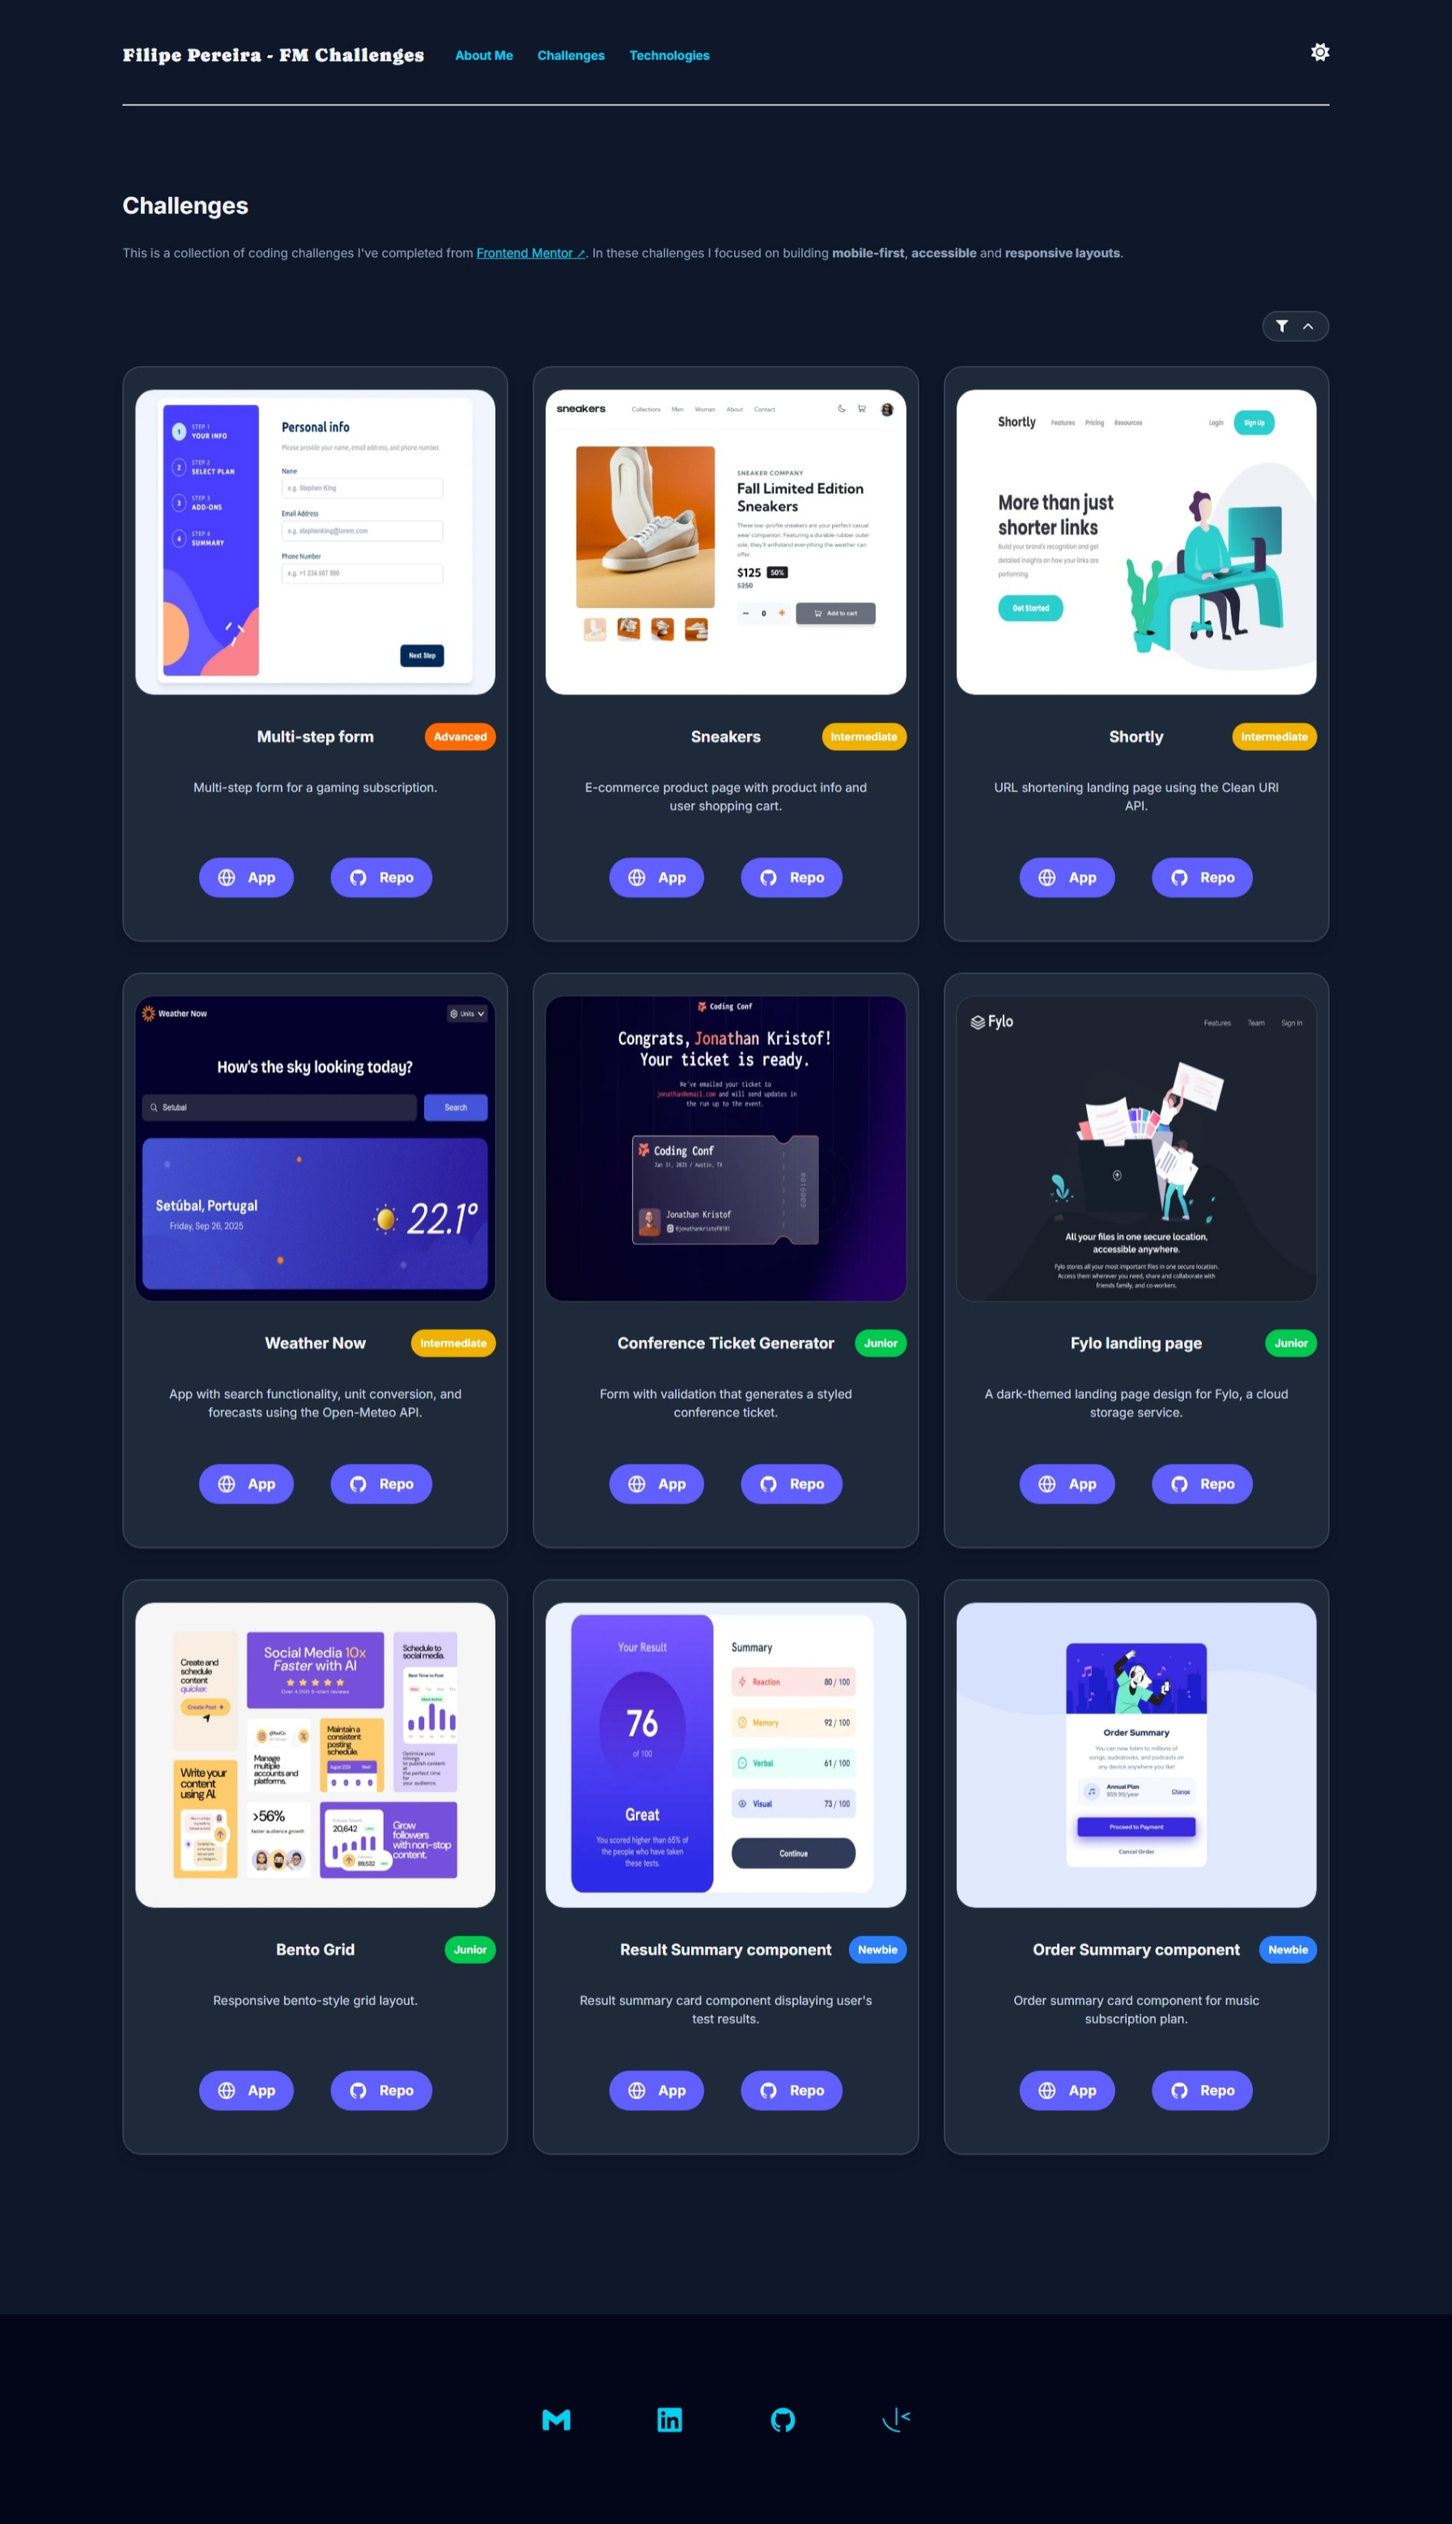
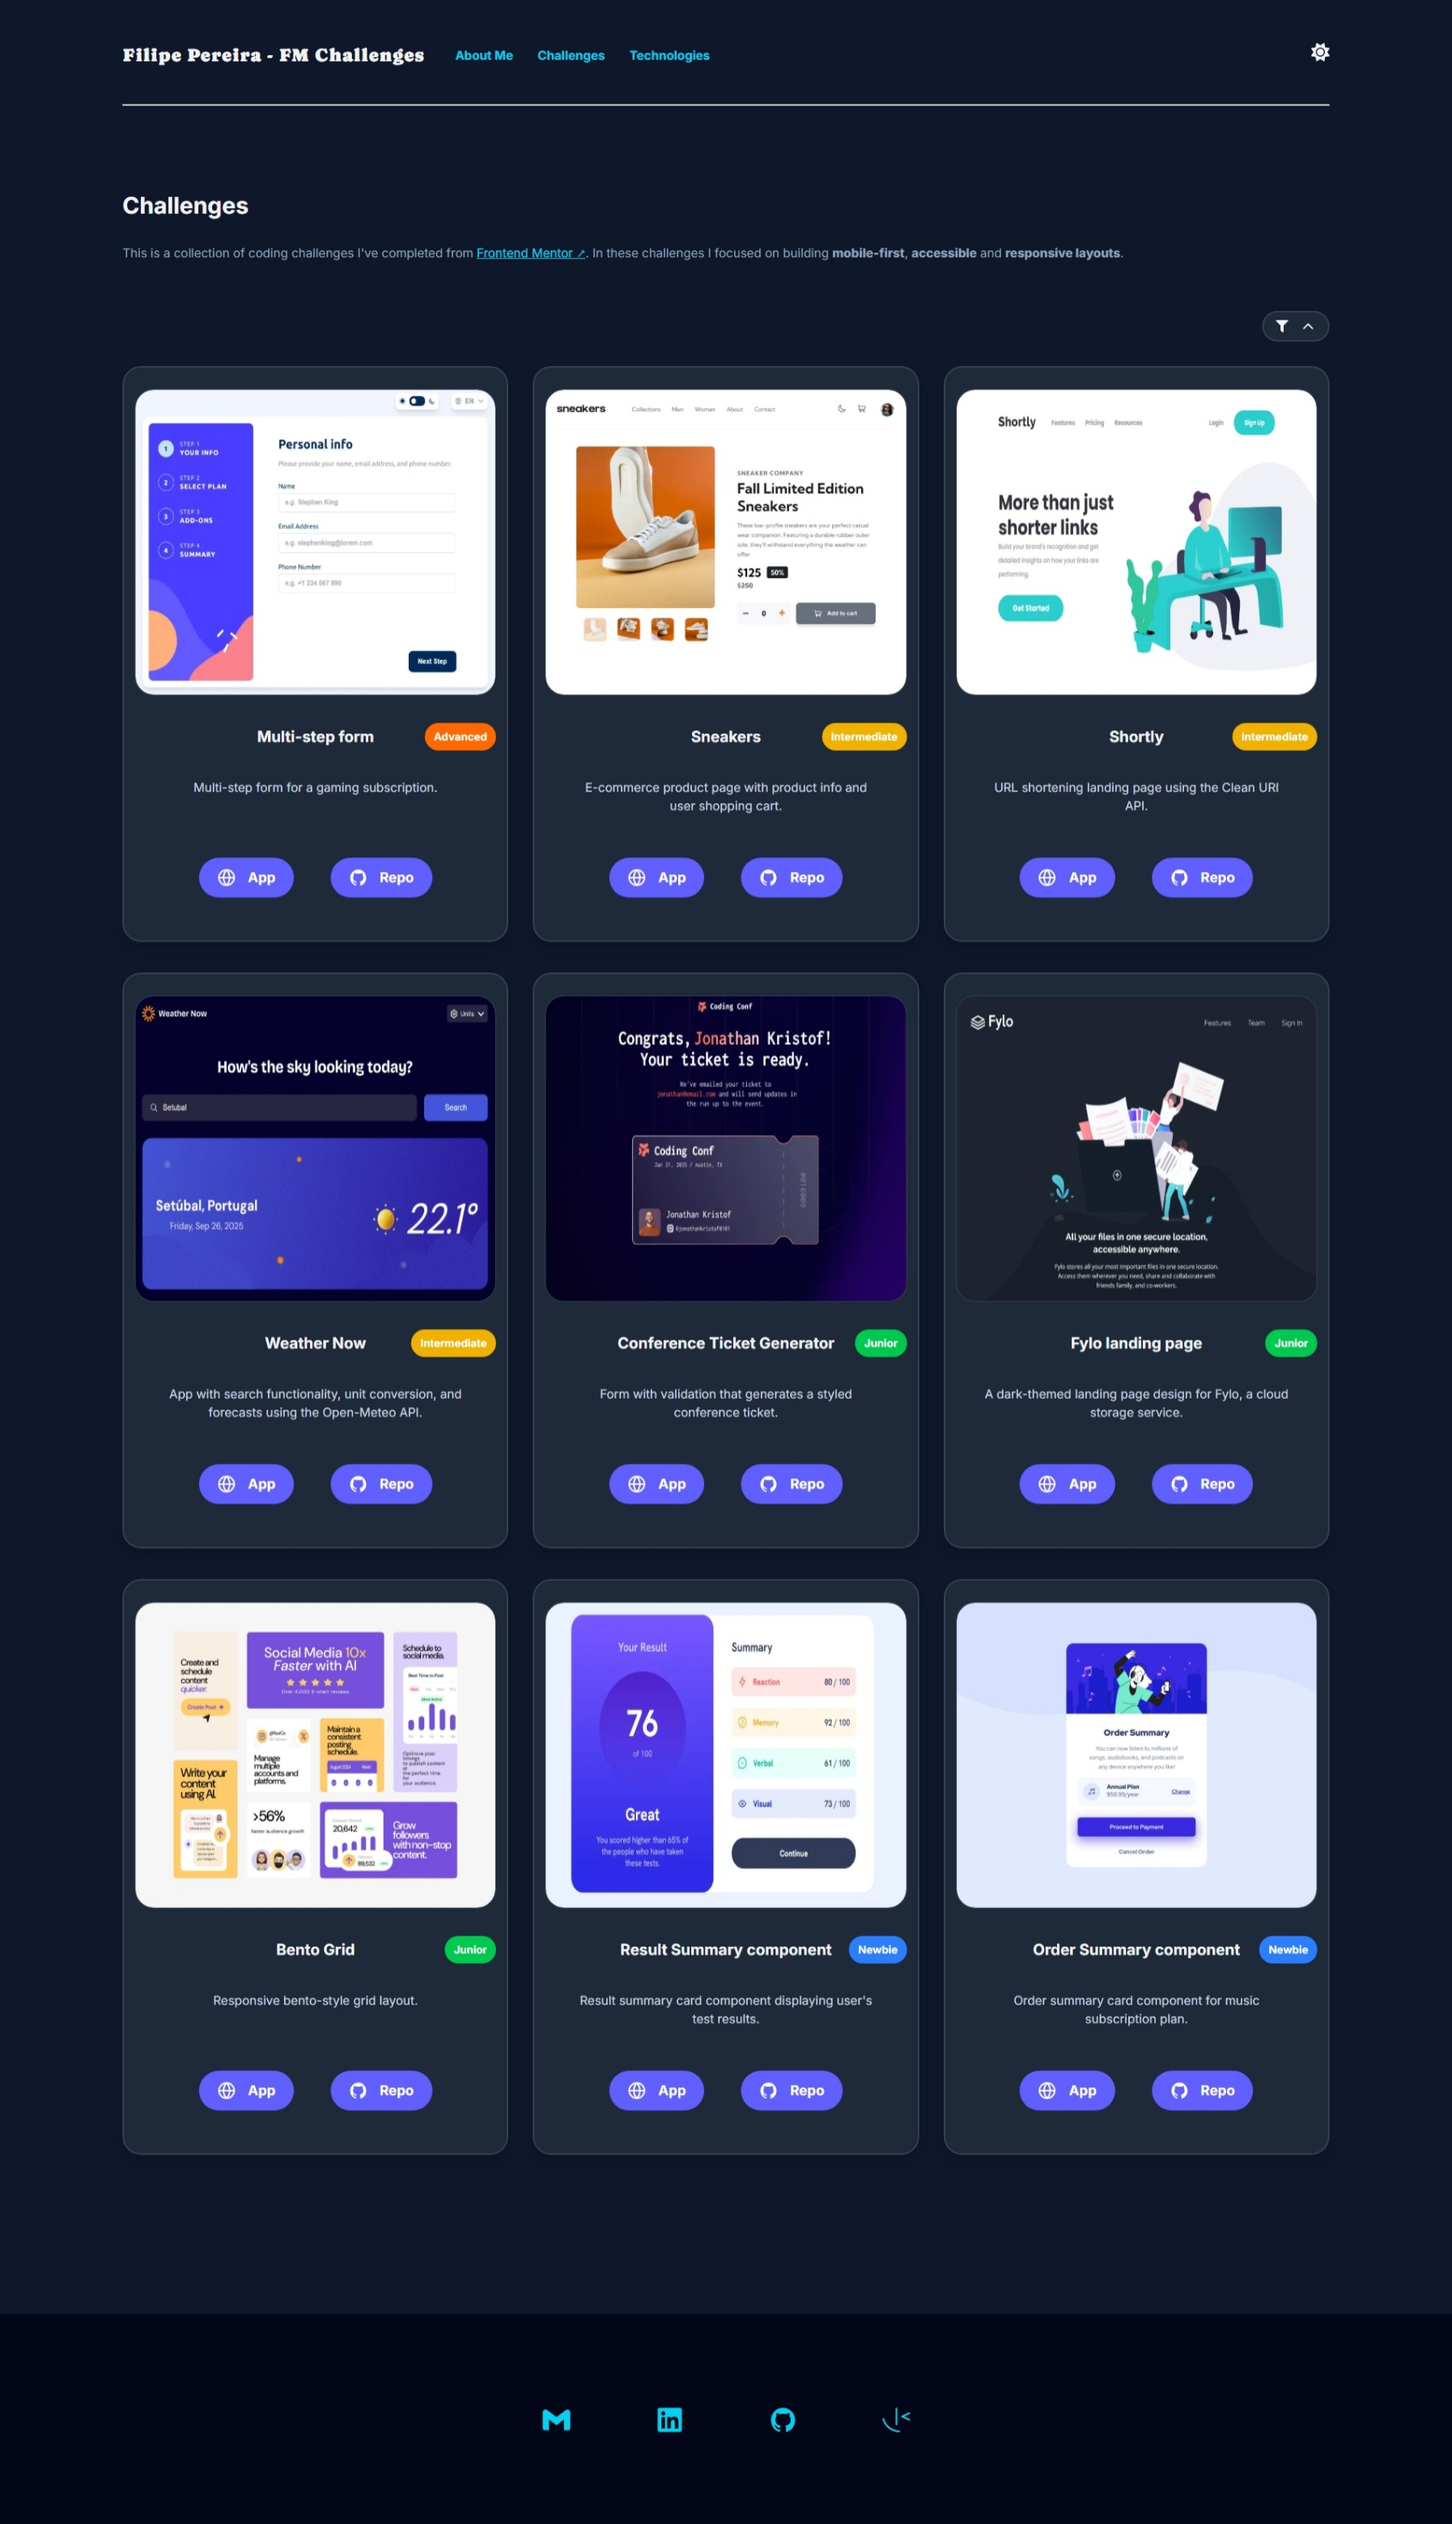
docs: Update README file
- Update portfolio and multistep-form challenge image
- Add Hosting technologies

Changed region(s): [[0.0936, 0.1555, 0.3122, 0.28], [0.2809, 0.2489, 0.3122, 0.28]]

diff --git a/README.md b/README.md
@@ -219,6 +219,12 @@ These are the technologies I used across my Frontend Mentor challenges:
 
   [GitHub Actions](https://github.com/features/actions) - CI/CD platform built into GitHub that automates workflows on every push or pull request
 
+- **Hosting:**
+
+  [GitHub Pages](https://docs.github.com/en/pages) - free hosting for static websites directly from a GitHub repository
+
+  [Vercel](https://vercel.com/) - Cloud platform to host and deploy modern websites and web applications, with full support for Next.js features like Server Actions
+
 - **Design:**
 
   [Figma](https://www.figma.com/) - UI design and prototyping tool used to create wireframes, mockups, and design systems collaboratively
